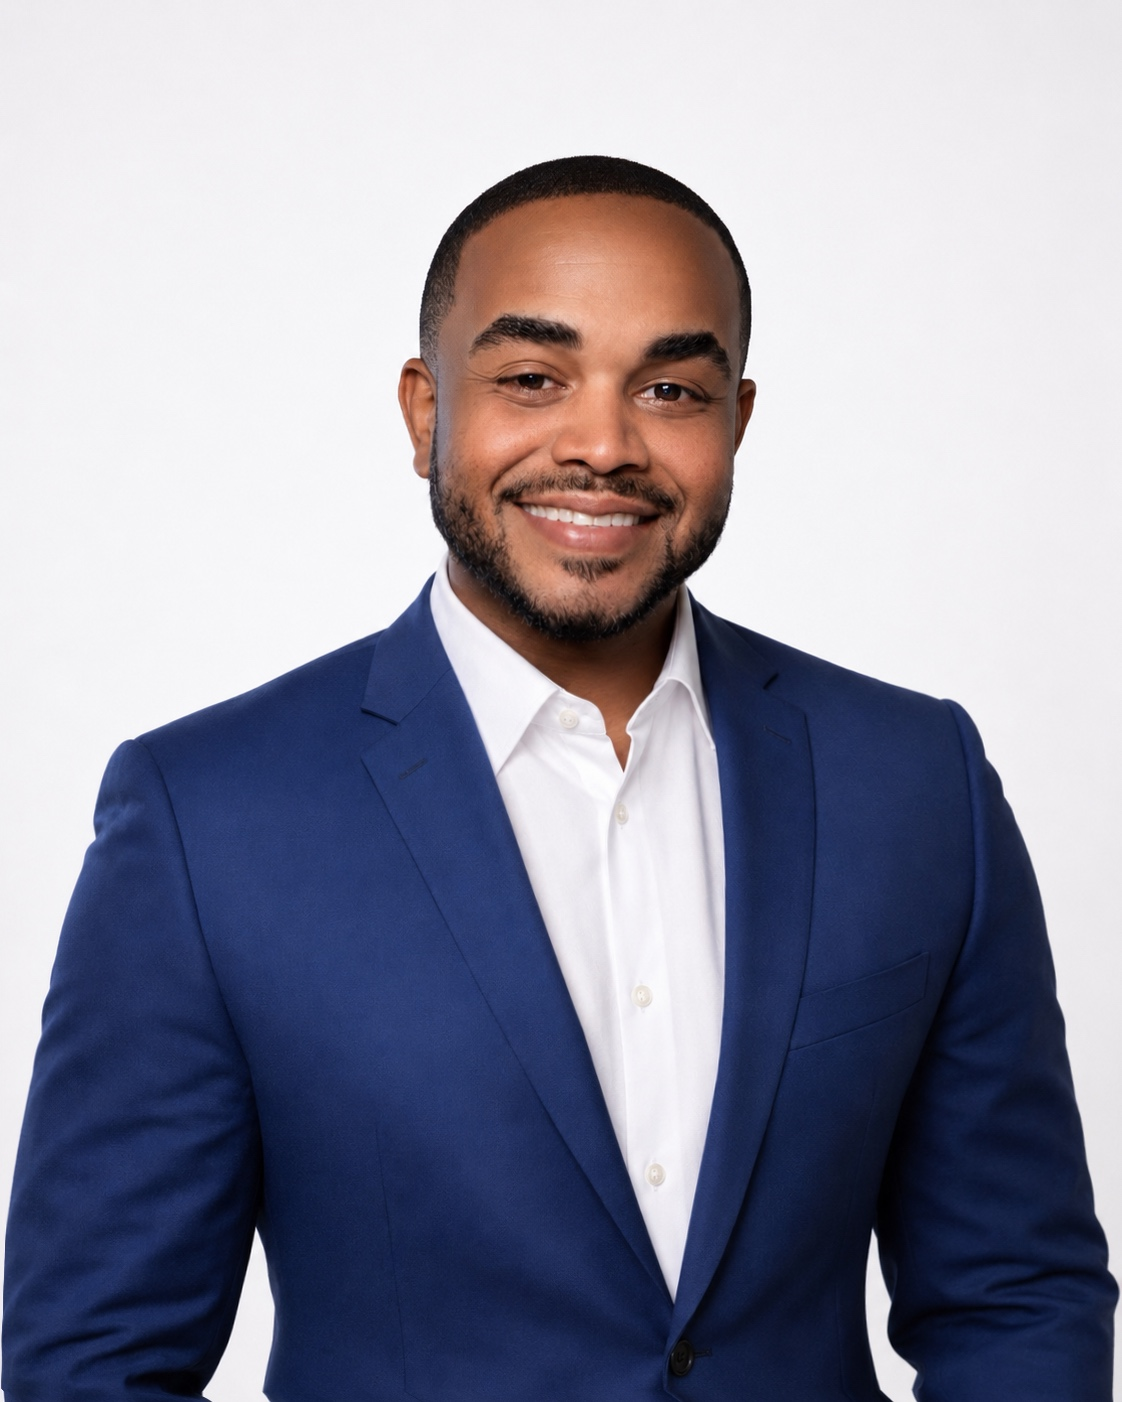
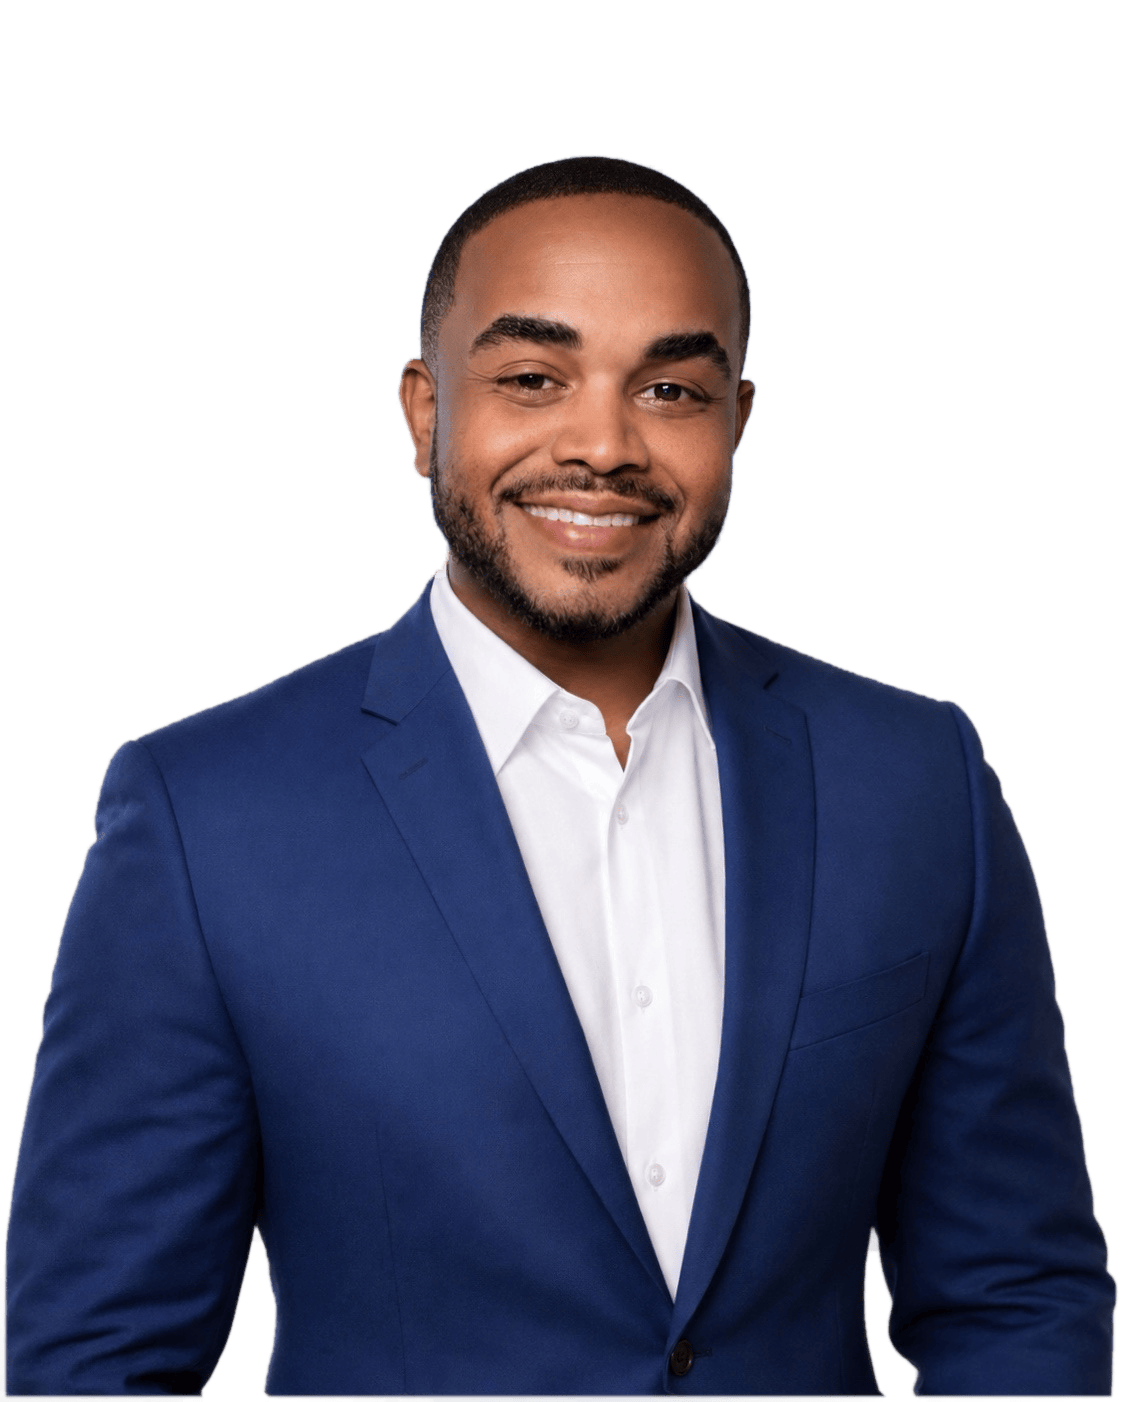
Replace headshot with true transparent PNG cutout, enlarge portrait
The prior asset was a flattened JPEG (no alpha) disguised as a .png, with
CSS blend-mode/mask tricks faking transparency against the page. Owner
supplied a new source photo (full torso, arms uncropped) and asked for a
real transparent background, larger size, and a lifted-off-the-page look.

- Ran the new source through a human-segmentation cutout (u2net_human_seg
  via rembg), refined the alpha edge (defringe + light feather), and
  optimized with pngquant: 1.31 MB raw -> 456 KB, alpha preserved
  (0-255), same 1122x1402 dimensions as before (no layout shift, TSX
  width/height attrs unchanged).
- Rewrote MeetJoeySection.module.css: removed mix-blend-mode: multiply,
  the radial/linear edge masks, and the page-colored wash `::after` that
  existed only to fake transparency on the JPEG. The real PNG alpha now
  defines the silhouette.
- Added two stacked drop-shadows (tight contact + wide soft) so the
  portrait visibly lifts off the page, kept only a soft bottom-edge mask
  so the torso still dissolves into the paper at the crop line.
- Enlarged the portrait wrapper/image (max-width 730->780/840,
  width min(123%,765px) -> min(128%,880px)) per request.

Verified: build clean (81 modules, bundle CSS shrank since hack CSS was
removed), no console errors, image decodes at full 1122x1402, no broken
images, no horizontal overflow at 390px or 1440px, mobile action bar
unobstructed.

diff --git a/src/sections/MeetJoeySection.module.css b/src/sections/MeetJoeySection.module.css
@@ -1,5 +1,6 @@
-/* Meet Joey — editorial spread. The portrait is now sourced from a JPG,
-   so the white studio field is visually blended into the ivory page. */
+/* Meet Joey — editorial spread. The portrait is a true transparent-background
+   PNG (alpha cutout), so it sits directly on the page and casts a soft lift
+   shadow. No blend-mode or wash tricks — the subject shape is the PNG alpha. */
 
 .grid {
   display: grid;
@@ -35,12 +36,12 @@
   }
 }
 
-/* ── Portrait: JPG field blended into page, soft editorial art behind ── */
+/* ── Portrait: transparent PNG cutout, soft editorial art behind ── */
 
 .portraitWrap {
   position: relative;
   width: 100%;
-  max-width: 730px;
+  max-width: 780px;
   justify-self: center;
   overflow: visible;
   isolation: isolate;
@@ -49,7 +50,7 @@
 @media (min-width: 760px) {
   .portraitWrap {
     justify-self: start;
-    max-width: 760px;
+    max-width: 840px;
   }
 }
 
@@ -71,63 +72,40 @@
     radial-gradient(ellipse at 22% 72%, rgba(128, 55, 35, 0.14) 0%, rgba(128, 55, 35, 0.055) 42%, rgba(128, 55, 35, 0) 78%),
     radial-gradient(ellipse at 78% 70%, rgba(250, 247, 242, 0.78) 0%, rgba(250, 247, 242, 0.22) 46%, rgba(250, 247, 242, 0) 74%);
   filter: blur(48px);
-  opacity: 0.9;
-}
-
-/* Soft page-colored wash that dissolves the JPG's studio background. */
-.portraitWrap::after {
-  content: '';
-  position: absolute;
-  z-index: 2;
-  inset: -1% -4% -4% -7%;
-  pointer-events: none;
-  background:
-    linear-gradient(90deg, var(--paper) 0%, rgba(250, 247, 242, 0) 18%, rgba(250, 247, 242, 0) 82%, var(--paper) 100%),
-    linear-gradient(180deg, rgba(250, 247, 242, 0) 54%, rgba(250, 247, 242, 0.45) 78%, var(--paper) 100%);
-  mix-blend-mode: lighten;
-  opacity: 0.72;
+  opacity: 0.62;
 }
 
 .portrait {
   position: relative;
   z-index: 1;
-  width: min(123%, 765px);
+  width: min(128%, 880px);
   height: auto;
   display: block;
   margin-left: -12%;
-  transform: translateY(3%);
-  mix-blend-mode: multiply;
+  transform: translateY(1%);
+  /* Two stacked shadows lift the cutout off the page — a tight contact
+     shadow plus a wide soft one. Both follow the PNG silhouette. */
   filter:
-    drop-shadow(0 28px 34px rgba(13, 13, 13, 0.12))
-    saturate(0.98)
-    contrast(1.02)
-    brightness(1.015);
-  -webkit-mask-image:
-    radial-gradient(120% 112% at 48% 46%, rgba(0, 0, 0, 1) 0%, rgba(0, 0, 0, 1) 58%, rgba(0, 0, 0, 0.92) 74%, rgba(0, 0, 0, 0.50) 90%, rgba(0, 0, 0, 0) 100%),
-    linear-gradient(
-      to bottom,
-      rgba(0, 0, 0, 1) 0%,
-      rgba(0, 0, 0, 1) 88.5%,
-      rgba(0, 0, 0, 0.995) 90.5%,
-      rgba(0, 0, 0, 0.96) 93%,
-      rgba(0, 0, 0, 0.82) 95.5%,
-      rgba(0, 0, 0, 0.54) 98%,
-      rgba(0, 0, 0, 0) 100%
-    );
-  -webkit-mask-composite: source-in;
-  mask-image:
-    radial-gradient(120% 112% at 48% 46%, rgba(0, 0, 0, 1) 0%, rgba(0, 0, 0, 1) 58%, rgba(0, 0, 0, 0.92) 74%, rgba(0, 0, 0, 0.50) 90%, rgba(0, 0, 0, 0) 100%),
-    linear-gradient(
-      to bottom,
-      rgba(0, 0, 0, 1) 0%,
-      rgba(0, 0, 0, 1) 88.5%,
-      rgba(0, 0, 0, 0.995) 90.5%,
-      rgba(0, 0, 0, 0.96) 93%,
-      rgba(0, 0, 0, 0.82) 95.5%,
-      rgba(0, 0, 0, 0.54) 98%,
-      rgba(0, 0, 0, 0) 100%
-    );
-  mask-composite: intersect;
+    drop-shadow(0 10px 16px rgba(13, 13, 13, 0.14))
+    drop-shadow(0 34px 54px rgba(13, 13, 13, 0.20));
+  /* Only a soft bottom dissolve so the torso melts into the page. The
+     subject silhouette itself comes from the PNG alpha channel. */
+  -webkit-mask-image: linear-gradient(
+    to bottom,
+    rgba(0, 0, 0, 1) 0%,
+    rgba(0, 0, 0, 1) 88%,
+    rgba(0, 0, 0, 0.82) 93%,
+    rgba(0, 0, 0, 0.34) 98%,
+    rgba(0, 0, 0, 0) 100%
+  );
+  mask-image: linear-gradient(
+    to bottom,
+    rgba(0, 0, 0, 1) 0%,
+    rgba(0, 0, 0, 1) 88%,
+    rgba(0, 0, 0, 0.82) 93%,
+    rgba(0, 0, 0, 0.34) 98%,
+    rgba(0, 0, 0, 0) 100%
+  );
 }
 
 .copy {